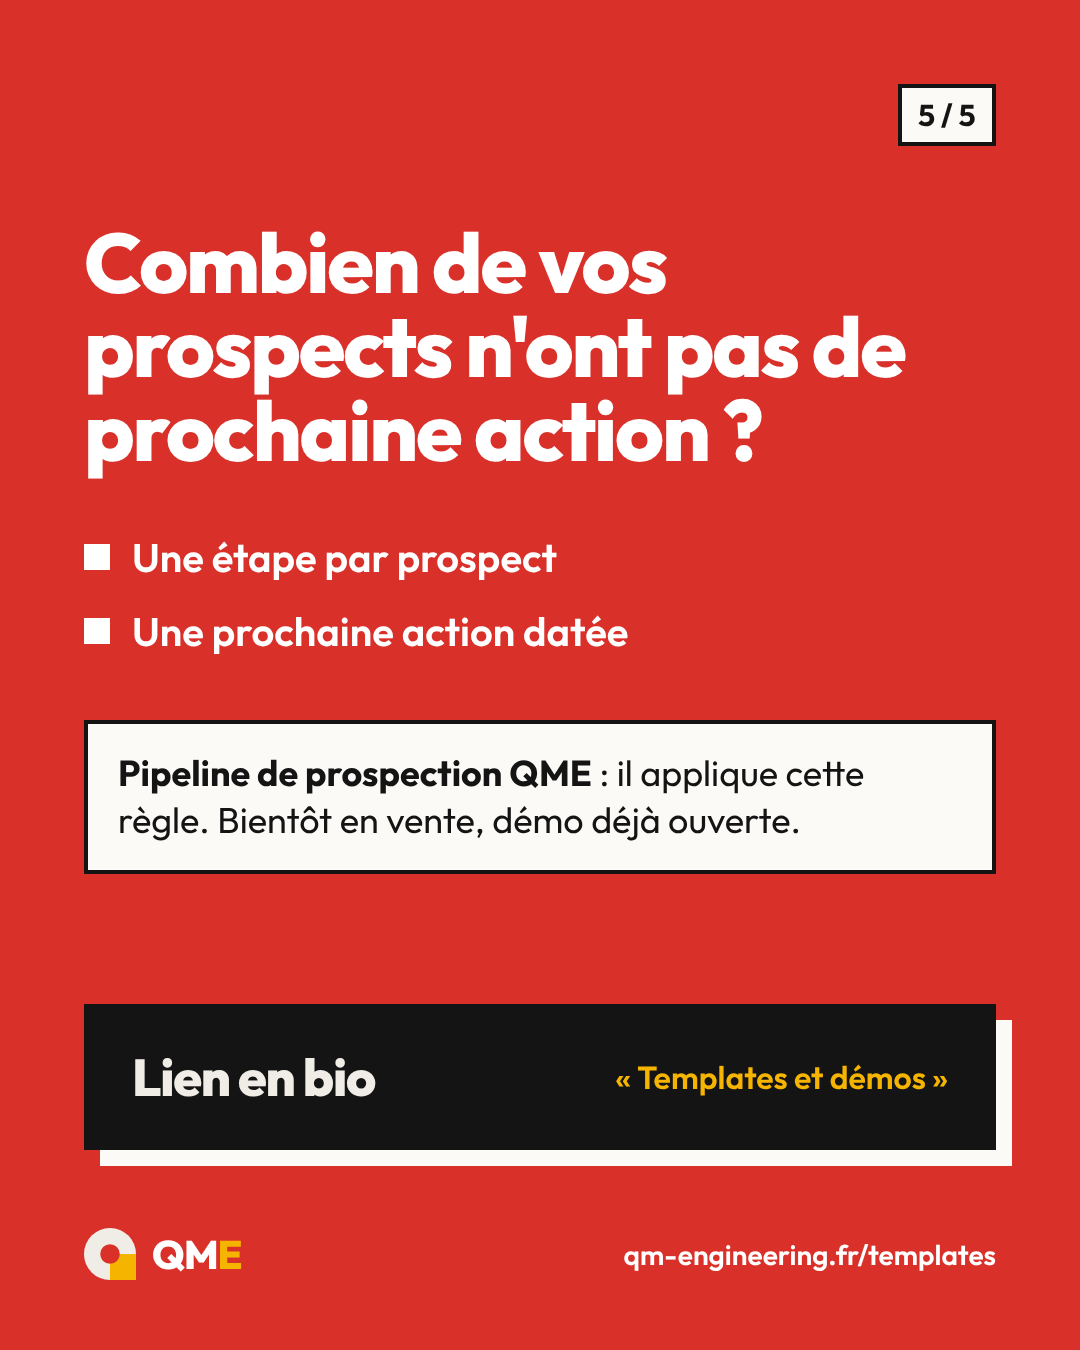
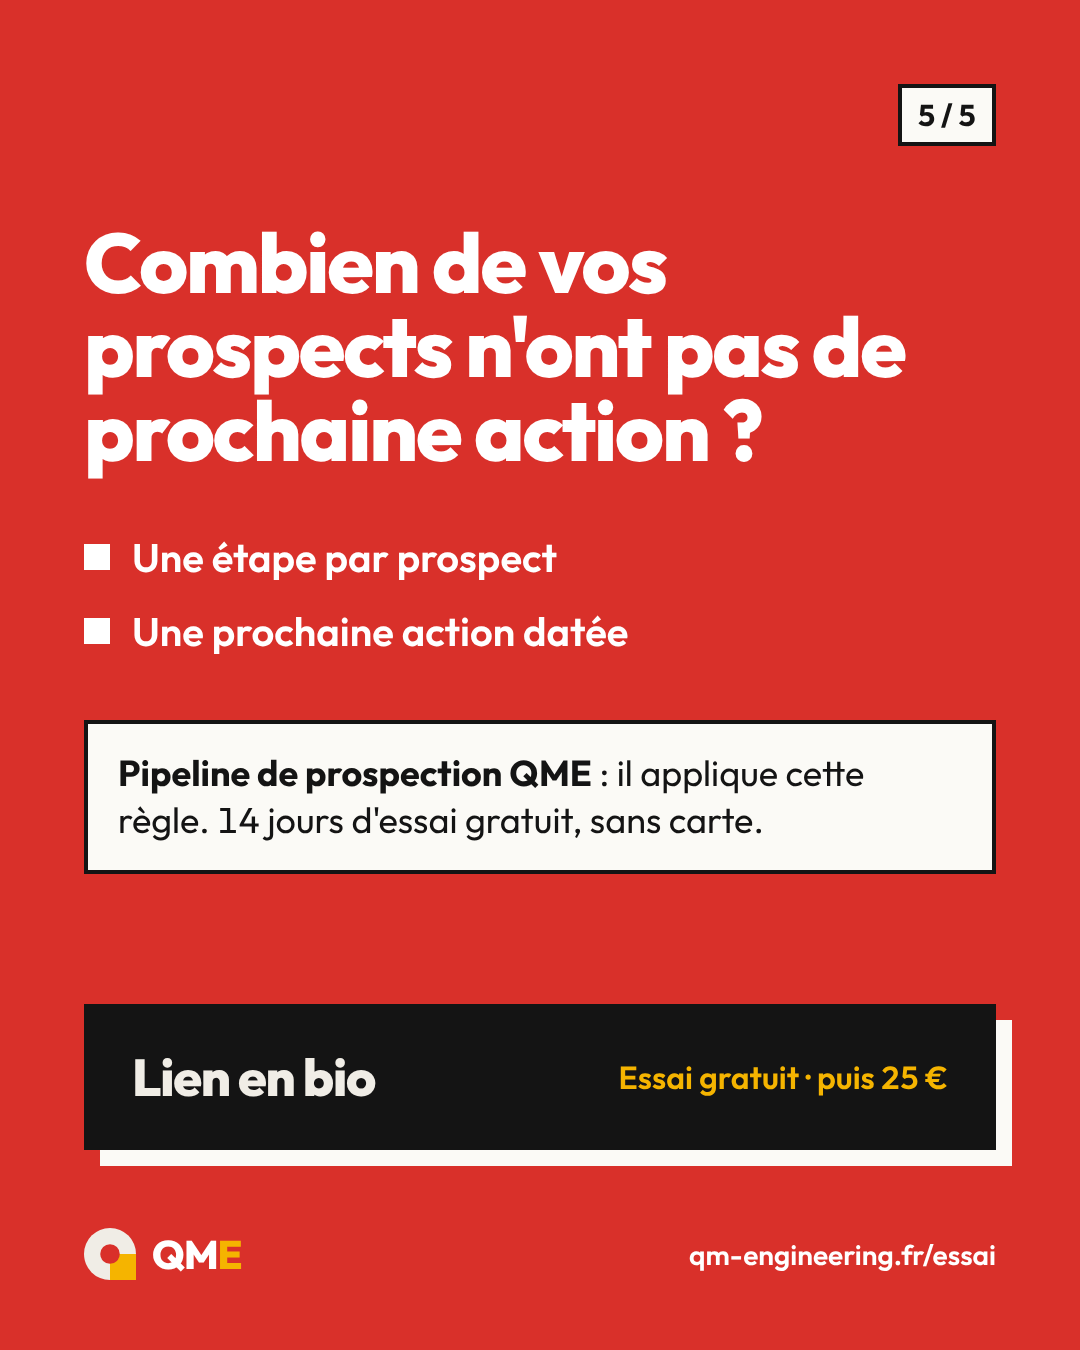
IG-54 : vue 5 « essai gratuit » au lieu de « bientôt en vente » (#202)
* IG-54 : vue 5 « essai gratuit, puis 25 € » au lieu de « bientôt en vente » (template en vente)

Claude-Session: https://claude.ai/code/session_0183EW55zVFgUqWYeysD2BAt

* IG-54 : vues 1 à 4 inchangées (identiques à Drive)

Claude-Session: https://claude.ai/code/session_0183EW55zVFgUqWYeysD2BAt

---------

diff --git a/docs/templates/communication/instagram/production/IG-54.html b/docs/templates/communication/instagram/production/IG-54.html
@@ -202,9 +202,9 @@ h1,h2,p{letter-spacing:-.025em}
     <h2 style="font-size:84px">Combien de vos prospects n'ont pas de prochaine action ?</h2>
     <div class="liste"><div><i></i>Une étape par prospect</div><div><i></i>Une prochaine action datée</div></div>
   </div>
-  <div class="plus" style="color:var(--encre);top:720px"><b>Pipeline de prospection QME</b> : il applique cette règle. Bientôt en vente, démo déjà ouverte.</div>
-  <div class="bouton"><b>Lien en bio</b><span>« Templates et démos »</span></div>
-  <div class="pied"><span class="marque"><svg viewBox="0 0 80 80"><use href="#symbole-clair"/></svg><span>Q<span class="m" style="color:#fff">M</span><span class="e">E</span></span></span><span>qm-engineering.fr/templates</span></div>
+  <div class="plus" style="color:var(--encre);top:720px"><b>Pipeline de prospection QME</b> : il applique cette règle. 14 jours d'essai gratuit, sans carte.</div>
+  <div class="bouton"><b>Lien en bio</b><span>Essai gratuit · puis 25 €</span></div>
+  <div class="pied"><span class="marque"><svg viewBox="0 0 80 80"><use href="#symbole-clair"/></svg><span>Q<span class="m" style="color:#fff">M</span><span class="e">E</span></span></span><span>qm-engineering.fr/essai</span></div>
 </section>
 
 </body>

diff --git a/docs/templates/communication/instagram/production/IG-54.py b/docs/templates/communication/instagram/production/IG-54.py
@@ -1,6 +1,6 @@
 """IG-54 · Carrousel « Méthode » d'après le script J29 de videos-30-jours.md (Ils n'ont pas dit non), à la
 place du Reel filmé prévu. Faits repris de J29 et de docs/templates/communication/prospection/linkedin.md.
-Le Pipeline de prospection (T35) n'est pas en vente : vue 5 « bientôt en vente », sans prix ni achat.
+Le Pipeline de prospection (T35) est en vente : vue 5 « essai gratuit 14 jours » (mise en conformité du 21/11/2026).
 Gabarit sur mesure de construire_ig_06_33.py (vues 1 à 4), vue 5 propre à ce post.
 
 Usage, depuis la racine du dépôt :
@@ -45,9 +45,9 @@ VUE5 = f'''<section class="cadre cta rouge" id="IG-54-relances-5">
     <h2 style="font-size:84px">{ig.e("Combien de vos prospects n'ont pas de prochaine action ?")}</h2>
     <div class="liste"><div><i></i>Une étape par prospect</div><div><i></i>Une prochaine action datée</div></div>
   </div>
-  <div class="plus" style="color:var(--encre);top:720px"><b>Pipeline de prospection QME</b> {ig.e(": il applique cette règle. Bientôt en vente, démo déjà ouverte.")}</div>
-  <div class="bouton"><b>Lien en bio</b><span>{ig.e("« Templates et démos »")}</span></div>
-  {ig.MARQUE.format(s='symbole-clair', ms=' style="color:#fff"', es='', url='qm-engineering.fr/templates')}
+  <div class="plus" style="color:var(--encre);top:720px"><b>Pipeline de prospection QME</b> {ig.e(": il applique cette règle. 14 jours d'essai gratuit, sans carte.")}</div>
+  <div class="bouton"><b>Lien en bio</b><span>{ig.e("Essai gratuit · puis 25 €")}</span></div>
+  {ig.MARQUE.format(s='symbole-clair', ms=' style="color:#fff"', es='', url='qm-engineering.fr/essai')}
 </section>'''
 
 ALT = [
@@ -55,7 +55,7 @@ ALT = [
     "Fond noir : le premier message est rarement celui qui obtient la réponse. C'est souvent la relance qu'on n'a pas envoyée. Quand on prospecte seul, tout tient dans un tableur et dans sa tête.",
     "La règle, pas de date, pas de relance : une étape par prospect, de « À contacter » à « Gagné » ; une prochaine action datée pour chacun ; une cadence choisie qui fixe la date de la relance suivante.",
     "Chaque matin, une seule liste : les relances du jour, retards en tête ; le message préparé avec le prénom, envoyé par vous ; les personnes qui ne veulent plus être contactées mises de côté.",
-    "Fond rouge : combien de vos prospects n'ont pas de prochaine action ? Le Pipeline de prospection QME applique cette règle : bientôt en vente, démo déjà ouverte. Lien en bio.",
+    "Fond rouge : combien de vos prospects n'ont pas de prochaine action ? Le Pipeline de prospection QME applique cette règle : 14 jours d'essai gratuit, sans carte, puis 25 €. Lien en bio.",
 ]
 
 if __name__ == '__main__':
